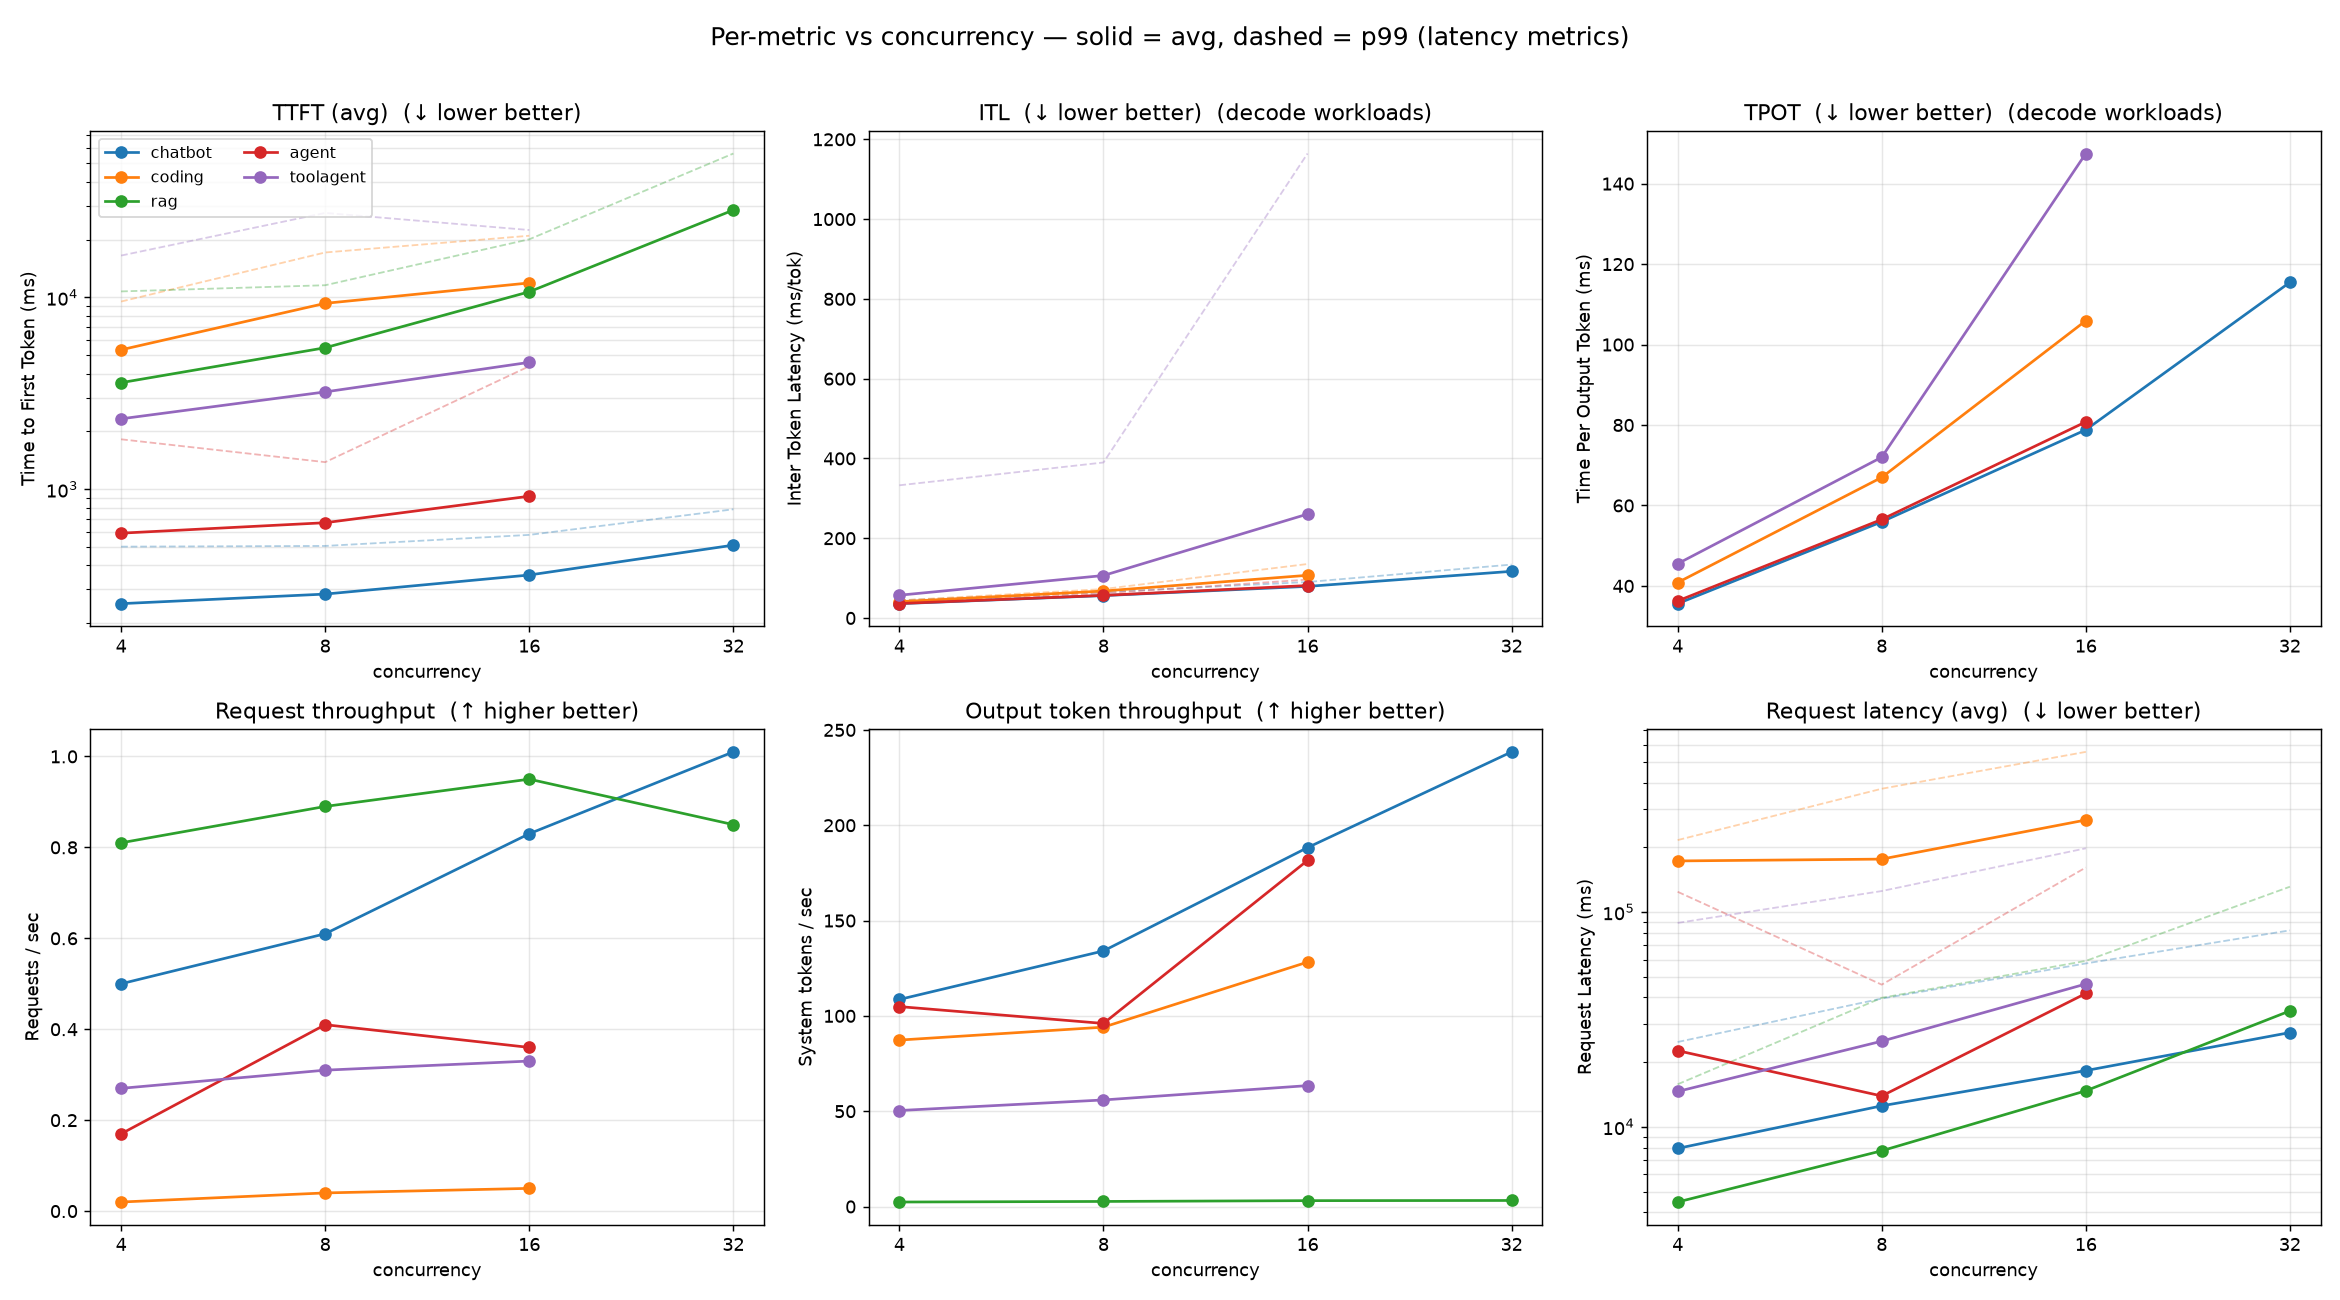
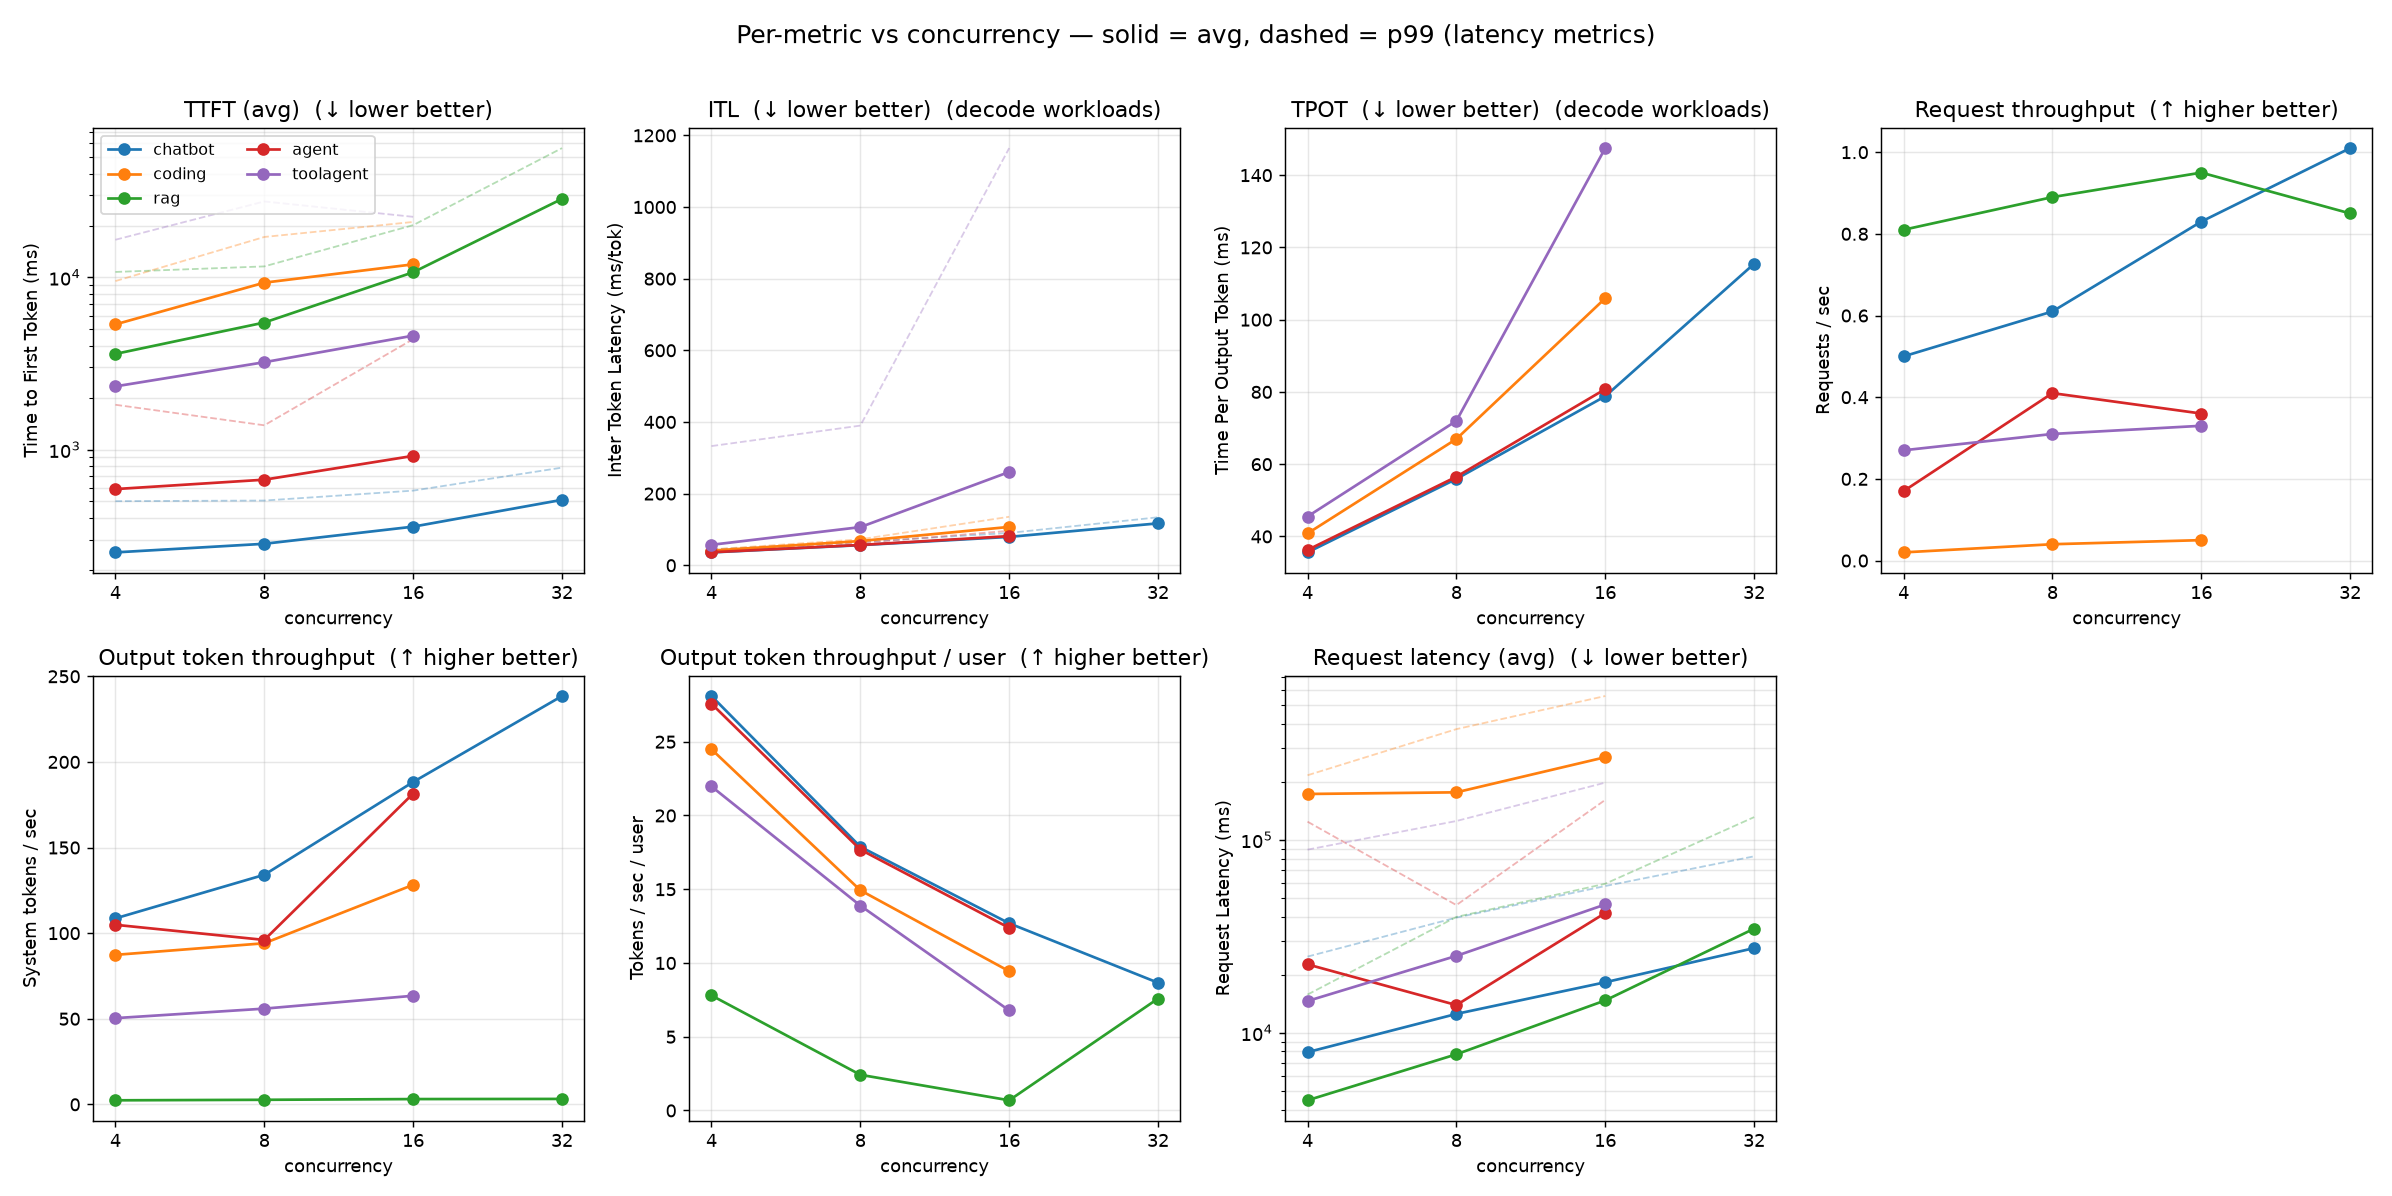
report_v6 + report_pass2: add per-user output token throughput chart
New metric_token_throughput_per_user.png (Output Token Throughput Per User,
tokens/sec/user) in both reports — the interactivity view: per-user decode speed
falls as the batch fills (inverse of TPOT). Grid now adapts to 7 metrics. Docs
updated to link it.

diff --git a/scripts/plot_pareto.py b/scripts/plot_pareto.py
@@ -88,6 +88,7 @@ METRICS = [
     ("TPOT",                tpot_ms,                                     "Time Per Output Token (ms)",   False, None,   True,  DECODE),
     ("Request throughput",  lambda wl, c: get(csv_sweep(wl, c), RPS),    "Requests / sec",               False, None,   False, WLS),
     ("Output token throughput", lambda wl, c: get(csv_sweep(wl, c), TOK), "System tokens / sec",         False, None,   False, WLS),
+    ("Output token throughput / user", lambda wl, c: get(csv_sweep(wl, c), TPU), "Tokens / sec / user",   False, None,   False, WLS),
     ("Request latency (avg)", lambda wl, c: get(csv_sweep(wl, c), REQLAT), "Request Latency (ms)",       True,  REQLAT, True,  WLS),
 ]
 
@@ -118,11 +119,15 @@ def _plot_metric(ax, title, vfn, ylabel, logy, p99m, lower_better, wls=WLS):
 
 
 def fig_metrics():
-    # combined grid
-    fig, axes = plt.subplots(2, 3, figsize=(18, 10))
-    for ax, (title, vfn, ylabel, logy, p99m, lb, wls) in zip(axes.ravel(), METRICS):
+    # combined grid (adapts to the number of metrics)
+    n = len(METRICS); ncols = 4 if n > 6 else 3; nrows = math.ceil(n / ncols)
+    fig, axes = plt.subplots(nrows, ncols, figsize=(4.6 * ncols, 4.6 * nrows))
+    axes = axes.ravel()
+    for ax, (title, vfn, ylabel, logy, p99m, lb, wls) in zip(axes, METRICS):
         _plot_metric(ax, title, vfn, ylabel, logy, p99m, lb, wls)
-    axes.ravel()[0].legend(fontsize=9, ncol=2)
+    for ax in axes[n:]:
+        ax.set_visible(False)
+    axes[0].legend(fontsize=9, ncol=2)
     fig.suptitle("Per-metric vs concurrency — solid = avg, dashed = p99 (latency metrics)", fontsize=14)
     fig.tight_layout(rect=[0, 0, 1, 0.97])
     fig.savefig(os.path.join(OUT_DIR, "metrics_grid.png"), dpi=130)
@@ -130,6 +135,7 @@ def fig_metrics():
     slug = {"TTFT (avg)": "ttft", "ITL": "itl", "TPOT": "tpot",
             "Request throughput": "req_throughput",
             "Output token throughput": "token_throughput",
+            "Output token throughput / user": "token_throughput_per_user",
             "Request latency (avg)": "req_latency"}
     written = []
     for title, vfn, ylabel, logy, p99m, lb, wls in METRICS:

diff --git a/report_v6/RESULTS.md b/report_v6/RESULTS.md
@@ -66,7 +66,8 @@ decode-bound workloads — rag's ~3-token answers make per-token latency undefin
 
 Individual charts: [TTFT](figures/metric_ttft.png) · [ITL](figures/metric_itl.png) ·
 [TPOT](figures/metric_tpot.png) · [request throughput](figures/metric_req_throughput.png) ·
-[output token throughput](figures/metric_token_throughput.png) ·
+[output token throughput (system)](figures/metric_token_throughput.png) ·
+[output token throughput / user](figures/metric_token_throughput_per_user.png) ·
 [request latency](figures/metric_req_latency.png).
 
 - **TTFT** rises with concurrency everywhere (more queued prefill); rag is worst (3.6 → 28.6 s)
@@ -77,6 +78,9 @@ Individual charts: [TTFT](figures/metric_ttft.png) · [ITL](figures/metric_itl.p
   (chatbot → 1.0 req/s at c32).
 - **Output token throughput** climbs with concurrency for decode workloads (chatbot → 238 tok/s);
   rag sits near zero (it barely generates).
+- **Output token throughput / user** does the opposite — it *falls* (28 → ~9–13 tok/s/user) as the
+  decode batch fills: total throughput rises but each individual user is served more slowly. This is
+  the per-user interactivity number (the inverse of TPOT).
 - **Request latency** is dominated by coding (reasoning ON, long outputs → minutes); short-output
   workloads stay in the seconds.
 

diff --git a/report_pass2/README.md b/report_pass2/README.md
@@ -27,7 +27,8 @@ this is the older exploration, kept for history.
 - Throughput-per-GPU frontier — `figures/pareto_per_gpu.png`
 - Capped sweep vs uncapped (★) — `figures/pareto_uncapped.png`
 - **Per-metric vs concurrency** — `figures/metrics_grid.png` plus individual
-  `metric_{ttft,itl,tpot,req_throughput,token_throughput,req_latency}.png`
+  `metric_{ttft,itl,tpot,req_throughput,token_throughput,token_throughput_per_user,req_latency}.png`
+  (output token throughput is charted both system-level and per-user)
 
 ![all metrics](figures/metrics_grid.png)
 ![overview](figures/pareto.png)
